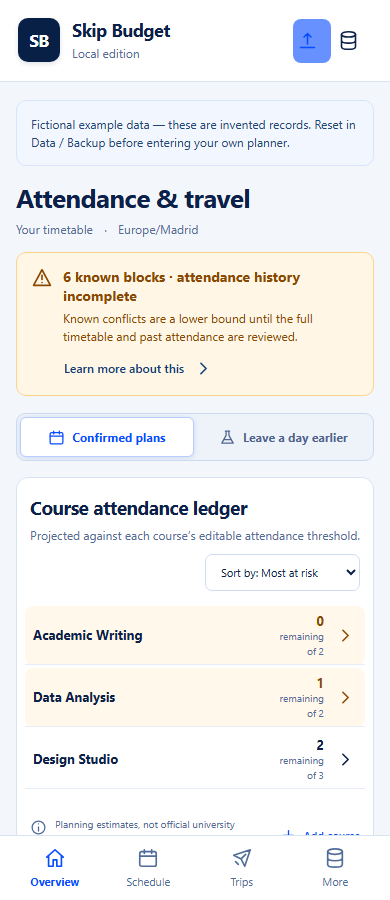
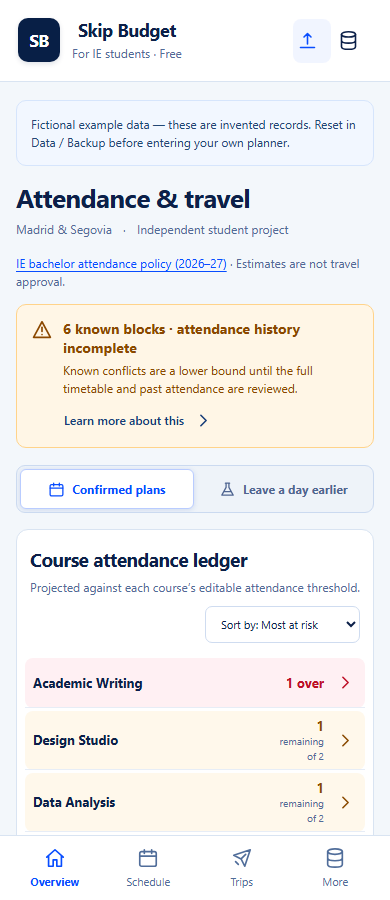
Focus the free planner on IE students and verify asynchronous attendance

diff --git a/src/Editors.tsx b/src/Editors.tsx
@@ -54,9 +54,12 @@ export function CourseDialog({
   >(course?.excusedTreatment ?? "unresolved");
   const [notes, setNotes] = useState(
     course?.policyNotes ??
-      "Institutional sanction, resit, and exception rules are not verified here.",
+      "IE bachelor 2026–27 planning reference: 80% threshold. Personal travel counts. Only mark an absence Excused after Program Management approval; configure exclusion explicitly. Verify your course totals and current rules.",
   );
-  const [sourceUrl, setSourceUrl] = useState(course?.sourceUrl ?? "");
+  const [sourceUrl, setSourceUrl] = useState(
+    course?.sourceUrl ??
+      "https://docs.ie.edu/documents/Attendance_Policy_Bachelor_Programs.pdf",
+  );
   const [verifiedAt, setVerifiedAt] = useState(course?.verifiedAt ?? "");
   const [formError, setFormError] = useState("");
   const item = course
@@ -513,13 +516,20 @@ export function SessionDialog({
         </>
       }
     >
-      {session && delivery !== "async" && (
+      {session && (
         <section className="attendance-first">
           <h3>Record attendance</h3>
           <p className="drawer-note">
             Each unit shares this block’s time. Changes stay in this draft until
             Save.
           </p>
+          {delivery === "async" && (
+            <p className="drawer-note">
+              At IE, asynchronous sessions count toward attendance. Record the
+              professor's attendance result here; your completion tracker does
+              not establish attendance.
+            </p>
+          )}
           {session.units.map((unit) => {
             const attendance =
               attendanceDraft[unit.id] ??
@@ -545,20 +555,22 @@ export function SessionDialog({
                   }
                   label={`Attendance for ${unit.label}`}
                 />
-                <label>
-                  <input
-                    type="checkbox"
-                    checked={planned}
-                    disabled={!scenario}
-                    onChange={(event) =>
-                      setPlannedDraft((current) => ({
-                        ...current,
-                        [unit.id]: event.target.checked,
-                      }))
-                    }
-                  />{" "}
-                  Planned skip in {scenario?.name ?? "what-if"}
-                </label>
+                {delivery !== "async" && (
+                  <label>
+                    <input
+                      type="checkbox"
+                      checked={planned}
+                      disabled={!scenario}
+                      onChange={(event) =>
+                        setPlannedDraft((current) => ({
+                          ...current,
+                          [unit.id]: event.target.checked,
+                        }))
+                      }
+                    />{" "}
+                    Planned skip in {scenario?.name ?? "what-if"}
+                  </label>
+                )}
               </div>
             );
           })}

diff --git a/tests/planner.spec.ts b/tests/planner.spec.ts
@@ -6,6 +6,40 @@ test.beforeEach(async ({ page }) => {
   await page.clock.setFixedTime(new Date("2026-09-28T12:00:00Z"));
 });
 
+test("async attendance is explicitly recorded independently of completion", async ({
+  page,
+}) => {
+  await example(page);
+  await page.getByRole("button", { name: "Completion", exact: true }).click();
+  const dialog = page.getByRole("dialog", {
+    name: "Asynchronous class editor",
+  });
+  await dialog
+    .getByLabel("Attendance for Unit 1", { exact: true })
+    .selectOption("absent");
+  await dialog
+    .getByRole("combobox", { name: "Completion", exact: true })
+    .selectOption("complete");
+  await dialog.getByRole("button", { name: "Save class", exact: true }).click();
+  await expect(dialog).toBeHidden();
+  const saved = await savedState(page);
+  expect(
+    saved.attendance.find((record: any) => record.sessionId === "reading")
+      .status,
+  ).toBe("absent");
+  expect(
+    saved.sessions.find((session: any) => session.id === "reading")
+      .asyncCompletion,
+  ).toBe("complete");
+  await page.reload();
+  await page.getByRole("button", { name: "Completion", exact: true }).click();
+  await expect(
+    page
+      .getByRole("dialog")
+      .getByLabel("Attendance for Unit 1", { exact: true }),
+  ).toHaveValue("absent");
+});
+
 async function savedState(page: Page) {
   return page.evaluate(
     () =>
@@ -228,7 +262,6 @@ test("aborted local writes retain the candidate; retry saves once; a second tab 
   await expect(second.getByRole("alert")).toContainText(
     "already open in another tab",
   );
-  await second.close();
   await page.evaluate(() => {
     const original = IDBDatabase.prototype.transaction;
     IDBDatabase.prototype.transaction = function (
@@ -267,8 +300,18 @@ test("aborted local writes retain the candidate; retry saves once; a second tab 
   await confirm(page);
   expect(await savedState(page)).toEqual(before);
   await page.close();
-  const reopened = await context.newPage();
-  await reopened.goto("/");
+  await expect
+    .poll(() =>
+      second.evaluate(
+        async () =>
+          (await navigator.locks.query()).held?.some(
+            (lock) => lock.name === "skip-budget-local-editor",
+          ) ?? false,
+      ),
+    )
+    .toBe(false);
+  const reopened = second;
+  await reopened.getByRole("button", { name: "Retry opening planner" }).click();
   await expect(
     reopened.getByRole("heading", { name: "Course attendance ledger" }),
   ).toBeVisible();

diff --git a/src/domain.test.ts b/src/domain.test.ts
@@ -63,7 +63,7 @@ describe("attendance planning with an explicit clock", () => {
       )?.plannedAbsences,
     ).toBe(1);
   });
-  it("does not treat past plans or asynchronous work as absences", () => {
+  it("does not infer absences from past plans or asynchronous travel conflicts", () => {
     const s = state();
     expect(
       planned(
@@ -81,6 +81,35 @@ describe("attendance planning with an explicit clock", () => {
       getProjection(s, null, now).courses.find((c) => c.courseId === "writing")
         ?.plannedAbsences,
     ).toBe(2);
+  });
+  it("counts explicit async attendance and excludes excused units only by configured policy", () => {
+    const s = state();
+    const asyncSession = s.sessions.find(
+      (session) => session.id === "reading",
+    )!;
+    asyncSession.endsAt = now - 1;
+    asyncSession.asyncDueAt = now + 1;
+    asyncSession.asyncCompletion = "complete";
+    const writing = () =>
+      getProjection(s, null, now).courses.find(
+        (c) => c.courseId === "writing",
+      )!;
+    expect(writing().unknownPastUnits).toBe(0);
+    asyncSession.asyncDueAt = now - 1;
+    expect(writing().unknownPastUnits).toBe(1);
+    s.attendance.push({
+      id: "async-result",
+      sessionId: "reading",
+      unitId: "reading-u1",
+      status: "absent",
+    });
+    expect(writing().actualAbsences).toBe(1);
+    expect(writing().unknownPastUnits).toBe(0);
+    s.attendance.at(-1)!.status = "excused";
+    expect(writing().actualAbsences).toBe(1);
+    s.courses.find((c) => c.id === "writing")!.excusedTreatment = "exclude";
+    expect(writing().actualAbsences).toBe(0);
+    expect(writing().plannedAbsences).toBe(2);
   });
   it("excludes cancelled trips and respects disabled scenarios", () => {
     const s = state();

diff --git a/src/Overview.tsx b/src/Overview.tsx
@@ -24,22 +24,33 @@ export function PageHeader({
     <section className="page-heading">
       <div>
         <p className="exchange">
-          <Icon name="plane" /> Local planner
+          <Icon name="plane" /> Free for IE students
         </p>
         <h1>{title}</h1>
         <p>
-          Your timetable <span className="dot">·</span> Europe/Madrid
+          Madrid & Segovia <span className="dot">·</span> Independent student
+          project
+        </p>
+        <p>
+          <a
+            href="https://docs.ie.edu/documents/Attendance_Policy_Bachelor_Programs.pdf"
+            target="_blank"
+            rel="noreferrer"
+          >
+            IE bachelor attendance policy (2026–27)
+          </a>{" "}
+          · Estimates are not travel approval.
         </p>
       </div>
 
       <blockquote>
         <span>“</span>
         <em>
-          A semester abroad is a collection
+          Know the class cost
           <br />
-          of classes, places, and perspectives.
+          before you book the trip.
         </em>
-        <small>Plan well. Make the most of it.</small>
+        <small>Free. Open source. No subscription.</small>
       </blockquote>
     </section>
   );
@@ -48,8 +59,8 @@ export function Coverage({ state }: { state: AppState }) {
   const [open, setOpen] = useState(false);
   const unknown = state.sessions.some(
     (s) =>
-      s.deliveryMode !== "async" &&
-      s.endsAt < Date.now() &&
+      (s.deliveryMode === "async" ? (s.asyncDueAt ?? s.endsAt) : s.endsAt) <
+        Date.now() &&
       s.units.some(
         (u) =>
           !state.attendance.some(

diff --git a/src/domain.ts b/src/domain.ts
@@ -306,13 +306,17 @@ export function getProjection(
         unitsOf(s).forEach((u) => {
           const r = recorded.get(`${s.id}:${u.id}`);
           if (
-            s.deliveryMode !== "async" &&
-            (r?.status === "absent" ||
-              (r?.status === "excused" &&
-                (c.excusedTreatment ?? "unresolved") !== "exclude"))
+            r?.status === "absent" ||
+            (r?.status === "excused" &&
+              (c.excusedTreatment ?? "unresolved") !== "exclude")
           )
             actual++;
-          else if (!r && s.endsAt < now && s.deliveryMode !== "async")
+          else if (
+            !r &&
+            (s.deliveryMode === "async"
+              ? (s.asyncDueAt ?? s.endsAt)
+              : s.endsAt) < now
+          )
             unknown++;
         }),
       );

diff --git a/index.html b/index.html
@@ -7,9 +7,9 @@
     <meta name="theme-color" content="#f3f7fb" />
     <meta
       name="description"
-      content="A local attendance and travel planner. Keep actual records, uncertainty, and what-if plans separate."
+      content="Free, open-source attendance and travel planning for IE University students in Madrid and Segovia. No account or subscription. Independent student project."
     />
-    <title>Skip Budget — Local attendance planner</title>
+    <title>Skip Budget — Free planner for IE students</title>
   </head>
   <body>
     <div id="root"></div>

diff --git a/src/seed.ts b/src/seed.ts
@@ -46,13 +46,13 @@ export function exampleState(now = Date.now()): AppState {
         id: "design",
         name: "Design Studio",
         totalUnits: 12,
-        requiredAttendanceBps: 7500,
+        requiredAttendanceBps: 8000,
       },
       {
         id: "writing",
         name: "Academic Writing",
         totalUnits: 8,
-        requiredAttendanceBps: 7500,
+        requiredAttendanceBps: 8000,
       },
     ],
     sessions: [

diff --git a/src/App.tsx b/src/App.tsx
@@ -478,7 +478,7 @@ export function App() {
           <button className="brand" onClick={() => go("overview")}>
             <span className="brand-mark">SB</span>
             <span>
-              Skip Budget<small>Local edition</small>
+              Skip Budget<small>For IE students · Free</small>
             </span>
           </button>
           <nav className="primary-nav" aria-label="Main navigation">

diff --git a/src/Schedule.tsx b/src/Schedule.tsx
@@ -67,7 +67,7 @@ export function Schedule({
       return false;
     if (attendance === "all") return true;
     const s = state.sessions.find((s) => s.id === e.id);
-    if (!s || s.deliveryMode === "async") return false;
+    if (!s) return false;
     return s.units.some(
       (u) =>
         (state.attendance.find((r) => r.unitId === u.id)?.status ??

diff --git a/docs/IE_STUDENT_GUIDE.md b/docs/IE_STUDENT_GUIDE.md
@@ -1,0 +1,35 @@
+# Planning an IE exchange without a subscription
+
+Sources reviewed on September 28, 2026. This independent project focuses on undergraduate attendance planning. Master's programs have separate policies. Check current course instructions and Program Management decisions before relying on an estimate.
+
+## How strict is the policy?
+
+The [2026–27 bachelor policy](https://docs.ie.edu/documents/Attendance_Policy_Bachelor_Programs.pdf) expects full attendance. Below 80% means 0.0 in both examination calls. Personal travel counts toward the absence limit; joining an in-person class remotely does not erase an absence. Late arrival or early departure also counts. Async attendance depends on assigned work.
+
+Specified documented reasons can qualify for exclusion. Submit evidence through Virtual Help Desk within seven days; Program Management decides. A professor's informal agreement is insufficient. Read the linked policy for qualifying categories and exceptional cases.
+
+## What does exchange status change?
+
+IE's [2026–27 exchange factsheet, hosted by McGill](https://www.mcgill.ca/mcgillabroad/files/mcgillabroad/ay_26-27_ieu_undergraduate_explorer_student_program_exchange_partnership_fact_sheet.pdf) explicitly applies attendance rules to local and exchange students and describes strict enforcement by academic offices. GEO cannot override them. Orientation is mandatory and attendance starts on day one.
+
+Timetables can vary weekly. Course availability and home-university approvals constrain enrollment; selecting courses does not guarantee a long weekend. Finals are in person, and June resits are not guaranteed for exchange students.
+
+There is a source discrepancy: the factsheet's enrollment section refers to reaching the 20% limit, whereas the bachelor policy specifies falling below 80%. Its treatment of interviews is also less specific. Ask Program Management to resolve your case; this app cannot settle that discrepancy.
+
+My reading: these are substantial academic constraints on travel, not evidence of a blanket travel ban. The documents describe policy and institutional enforcement claims; they do not measure how every professor enforces it in practice.
+
+## Use the planner before booking
+
+1. Verify each course's full session count. Count numbered sessions, not calendar blocks. At the default 80%, 15 units produce a mathematical allowance of three; a two-unit block consumes two.
+2. Record what actually happened. Missing records stay unknown. Only mark an absence **Excused** after approval, and explicitly select **Do not count** in the course policy if appropriate. Pending requests should continue counting.
+3. Enter the full away interval, including transfers. Compare an earlier departure with leaving after class. Check exams, presentations, and group commitments independently of the remaining allowance.
+4. Review async deadlines and record confirmed attendance in the asynchronous class editor. Completing your checklist does not confirm the professor's record.
+5. Keep room for unexpected events and export a backup. A number above zero is a calculation from your inputs, not permission to travel.
+
+## Why free?
+
+The project exists to make this personal planning workflow available without a recurring fee. Its code and features are available to everyone under MIT. It does not promise a hosted service or automatic synchronization.
+
+For context, [SkipFreely](https://skipfreely.com)'s public Terms & Conditions, inspected September 28, 2026, list EUR 19.99 for 150 days of planner access, not a monthly charge. This is a dated pricing observation, not a checkout verification or a comparison of tested capabilities. Skip Budget's free license stands on its own.
+
+Free source code alone does not remove setup friction: this edition still requires a local Node.js installation. Easier distribution is the next accessibility gap to validate with students. No competitor price or feature-parity claim is needed to justify making this project free.

diff --git a/README.md b/README.md
@@ -2,11 +2,15 @@
 
 [![Checks](https://github.com/Alex-Kahwaji67/skip-budget-local/actions/workflows/checks.yml/badge.svg)](https://github.com/Alex-Kahwaji67/skip-budget-local/actions/workflows/checks.yml)
 
-**An attendance and travel planner that keeps recorded absences, unknown history, and future plans separate.**
+**Free, open-source attendance and travel planning for IE University students.**
 
-Built from a personal exchange-semester planning problem: a trip can overlap several classes, a class can count as two attendance units, and an incomplete calendar cannot tell you that you are free.
+Built from an exchange semester at IE in Madrid: before booking a trip, understand which numbered sessions, assessments, and deadlines it overlaps. One calendar block can contain two attendance units. An incomplete timetable cannot tell you that you are free.
+
+For IE undergraduates and incoming exchange students in Madrid and Segovia. Independent and unaffiliated with IE University. Anyone can use, inspect, or adapt the code under the MIT license. Attendance planning should be available without a subscription.
 
 This is the standalone local edition. No account, backend, API key, or subscription is required. Planner data stays in IndexedDB in your browser; JSON backups move it between devices manually.
+
+**Free software, currently a local setup:** you need Node.js and the instructions below. There is no public one-click hosted app yet. See the [IE attendance and exchange guide](docs/IE_STUDENT_GUIDE.md) for sources, limits, and what to check before booking.
 
 ![Fictional attendance planner](docs/screenshots/overview.png)
 
@@ -41,11 +45,12 @@ See the [walkthrough](docs/WALKTHROUGH.md) and [development case study](docs/CAS
 
 - Course-specific whole-unit attendance thresholds: `total units - ceil(total units × required attendance)`.
 - Partial attendance in multi-unit blocks, unknown past records, conservative excused-absence treatment, and incomplete schedule warnings.
+- Explicit attendance records for asynchronous sessions, separate from your completion checklist. Travelling never automatically marks asynchronous work absent.
 - Confirmed travel, tentative trip comparisons, manual what-if skips, assessment conflicts, and asynchronous deadlines.
 - Reviewed CSV/ICS imports with source identities, explicit course mapping, deduplication, and validation before saving.
 - Validated JSON backup/restore, atomic reset/recovery, and export/retry when a local write fails.
 
-All displayed times use **Europe/Madrid**. This is a deliberately narrow planning tool, not an institutional attendance system. Verify course requirements yourself. The app does not determine official sanctions, exceptions, or whether skipping a class is advisable.
+All displayed times use **Europe/Madrid**, also the timezone for Segovia. New courses and fictional examples start with an editable 80% planning threshold. Example course names and totals are invented, not an IE course catalogue. Verify session totals against your syllabus. The app does not determine official sanctions, approve absences, or guarantee a trip is academically safe.
 
 ## Import a timetable
 

diff --git a/docs/CASE_STUDY.md b/docs/CASE_STUDY.md
@@ -2,7 +2,9 @@
 
 ## Problem
 
-Skip Budget began with an exchange-semester problem: comparing travel ideas against attendance requirements and a timetable that was still incomplete. Counting calendar events was insufficient because a double teaching block could represent two attendance units. A planned absence was also different from a recorded absence, and a missing record did not establish attendance.
+Skip Budget began during an exchange semester at IE University in Madrid: comparing travel ideas against attendance requirements and a timetable that was still incomplete. Counting calendar events was insufficient because a double teaching block could represent two attendance units. A planned absence was also different from a recorded absence, and a missing record did not establish attendance.
+
+The intended audience is IE undergraduates, particularly incoming exchange students planning travel alongside coursework. The [IE student guide](IE_STUDENT_GUIDE.md) links the researched policy and explains its limits. The public edition is free and open source because this planning workflow should not require a subscription. That is a product choice, not evidence of adoption or superiority to a paid tool.
 
 A spreadsheet can calculate a remaining allowance. The reason to build a dedicated interface was the repeated workflow around that calculation: importing timetable updates, retaining the identity of individual units, comparing overlapping trips, and checking assessments next to the travel decision.
 
